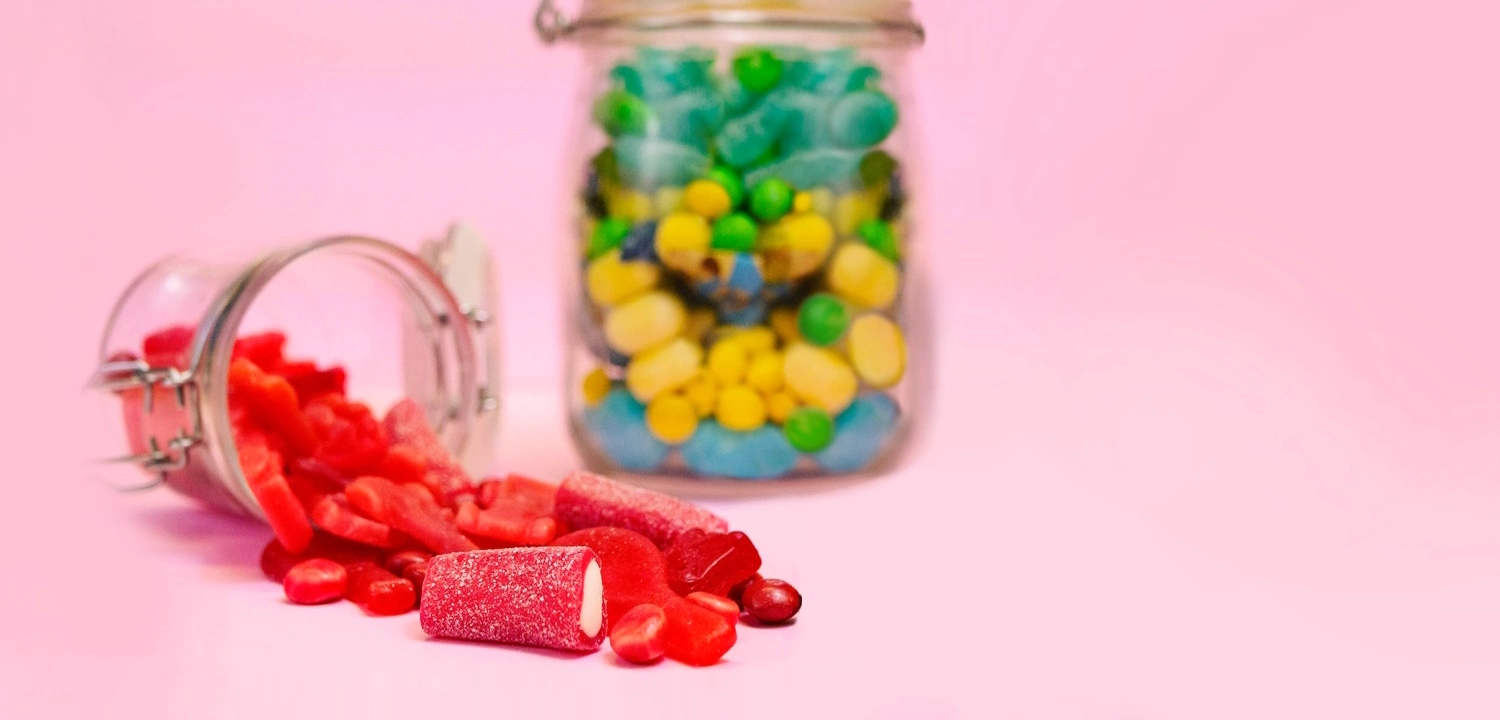
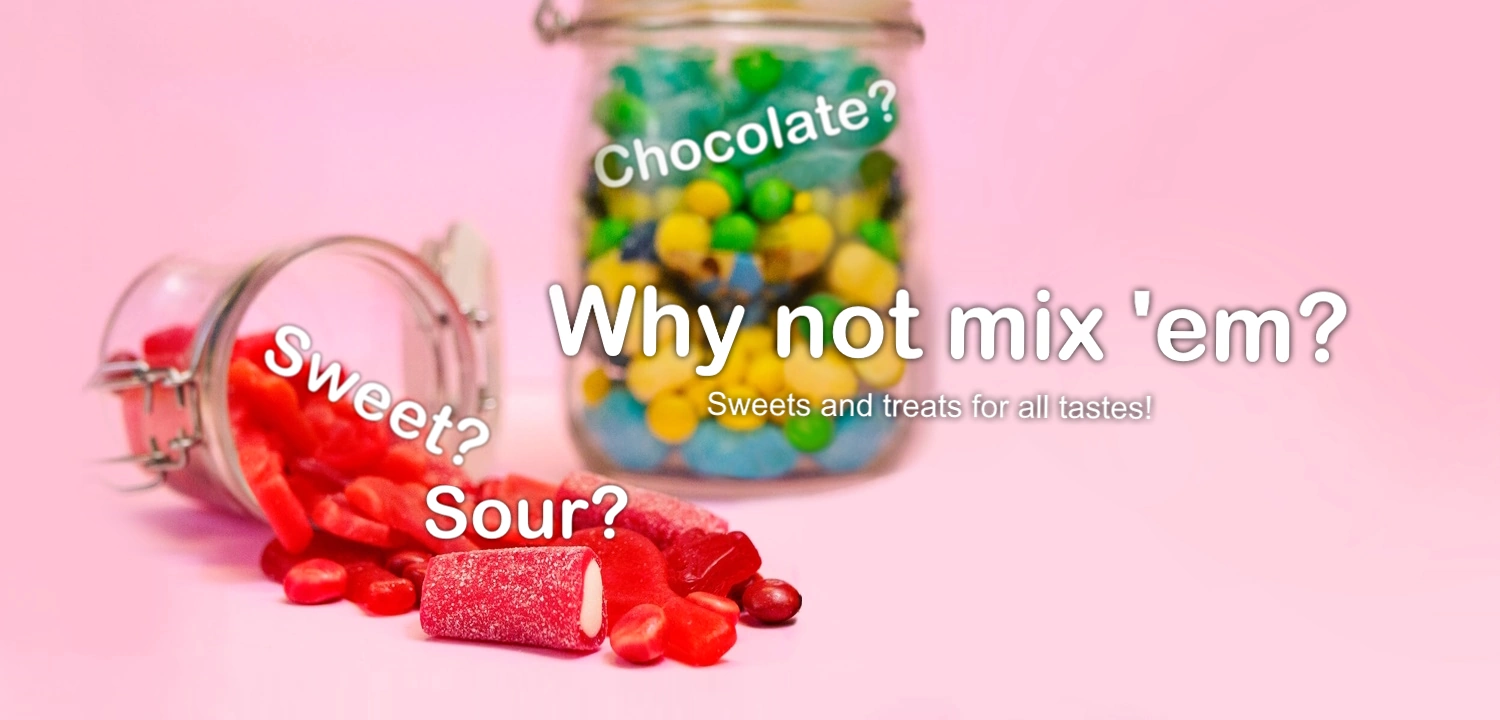
Update contents of carousel on home page

diff --git a/home/templates/home/index.html b/home/templates/home/index.html
@@ -2,7 +2,7 @@
 {% load static %}
 
 {% block page_header%}
-<div id="heroCarousel" class="carousel slide d-none d-md-block">
+<div id="heroCarousel" class="carousel slide d-none d-md-block" data-bs-theme="dark">
     <div class="carousel-indicators">
         <button type="button" data-bs-target="#heroCarousel" data-bs-slide-to="0" class="active" aria-current="true" aria-label="Slide 1"></button>
         <button type="button" data-bs-target="#heroCarousel" data-bs-slide-to="1" aria-label="Slide 2"></button>
@@ -10,25 +10,19 @@
     </div>
     <div class="carousel-inner">
         <div class="carousel-item active">
-            <img src="{% static 'images\carousel-pile-of-candy.webp' %}" class="d-block w-100" alt="CAROUSEL 1">
-            <div class="carousel-caption left">
-                <h5>First slide</h5>
-                <p>Text on the left</p>
-            </div>
+            <a href="{% url 'products' %}?category=candy">
+                <img src="{% static 'images\carousel-pile-of-candy.webp' %}" class="d-block w-100" alt="Mix-n-Match - Create your very own candy mix!">
+            </a>
         </div>
         <div class="carousel-item">
-            <img src="{% static 'images\carousel-jar-of-candy.webp' %}" class="d-block w-100" alt="...">
-            <div class="carousel-caption text-right">
-                <h5>Second slide</h5>
-                <p>Text on the right</p>
-            </div>
+            <a href="{% url 'products' %}?category=candy&tags=sweet,sour,chocolate">
+                <img src="{% static 'images\carousel-jar-of-candy.webp' %}" class="d-block w-100" alt="Sweet, sour or chocolate? Why not mix 'em?">
+            </a>
         </div>
         <div class="carousel-item">
-            <img src="{% static 'images\carousel-bowl-of-candy.webp' %}" class="d-block w-100" alt="...">
-            <div class="carousel-caption text-bottom">
-                <h5>Third slide</h5>
-                <p>Text on the left</p>
-            </div>
+            <a href="{% url 'products' %}?category=mixed-bags">
+                <img src="{% static 'images\carousel-bag-of-candy.webp' %}" class="d-block w-100" alt="Can't decide? Enjoy our pre-mixed assortments!">
+            </a>
         </div>
     </div>
     <button class="carousel-control-prev" type="button" data-bs-target="#heroCarousel" data-bs-slide="prev">
@@ -124,7 +118,7 @@
     </div>
 </div>
 
- <!-- Newsletter Signup (Embedded MailChimp form) -->
+<!-- Newsletter Signup (Embedded MailChimp form) -->
 <div class="container-fluid newsletter-container py-5 my-3">
     <div class="row">
         <div class="col-12 col-sm-8 offset-sm-2 col-md-6 offset-md-3 col-xl-4 offset-xl-4 p-3 p-md-0">

diff --git a/static/css/style.css b/static/css/style.css
@@ -108,9 +108,8 @@ footer a:hover{
     border-radius: 50%;   
 }
 
-.carousel-caption{
-    background-color: rgba(0, 0, 0, 0.5);
-    border-radius: 10px;
+#heroCarousel .carousel-indicators button{
+    background-color: #555;
 }
 
 /* Pagination wraps on smaller devices */
